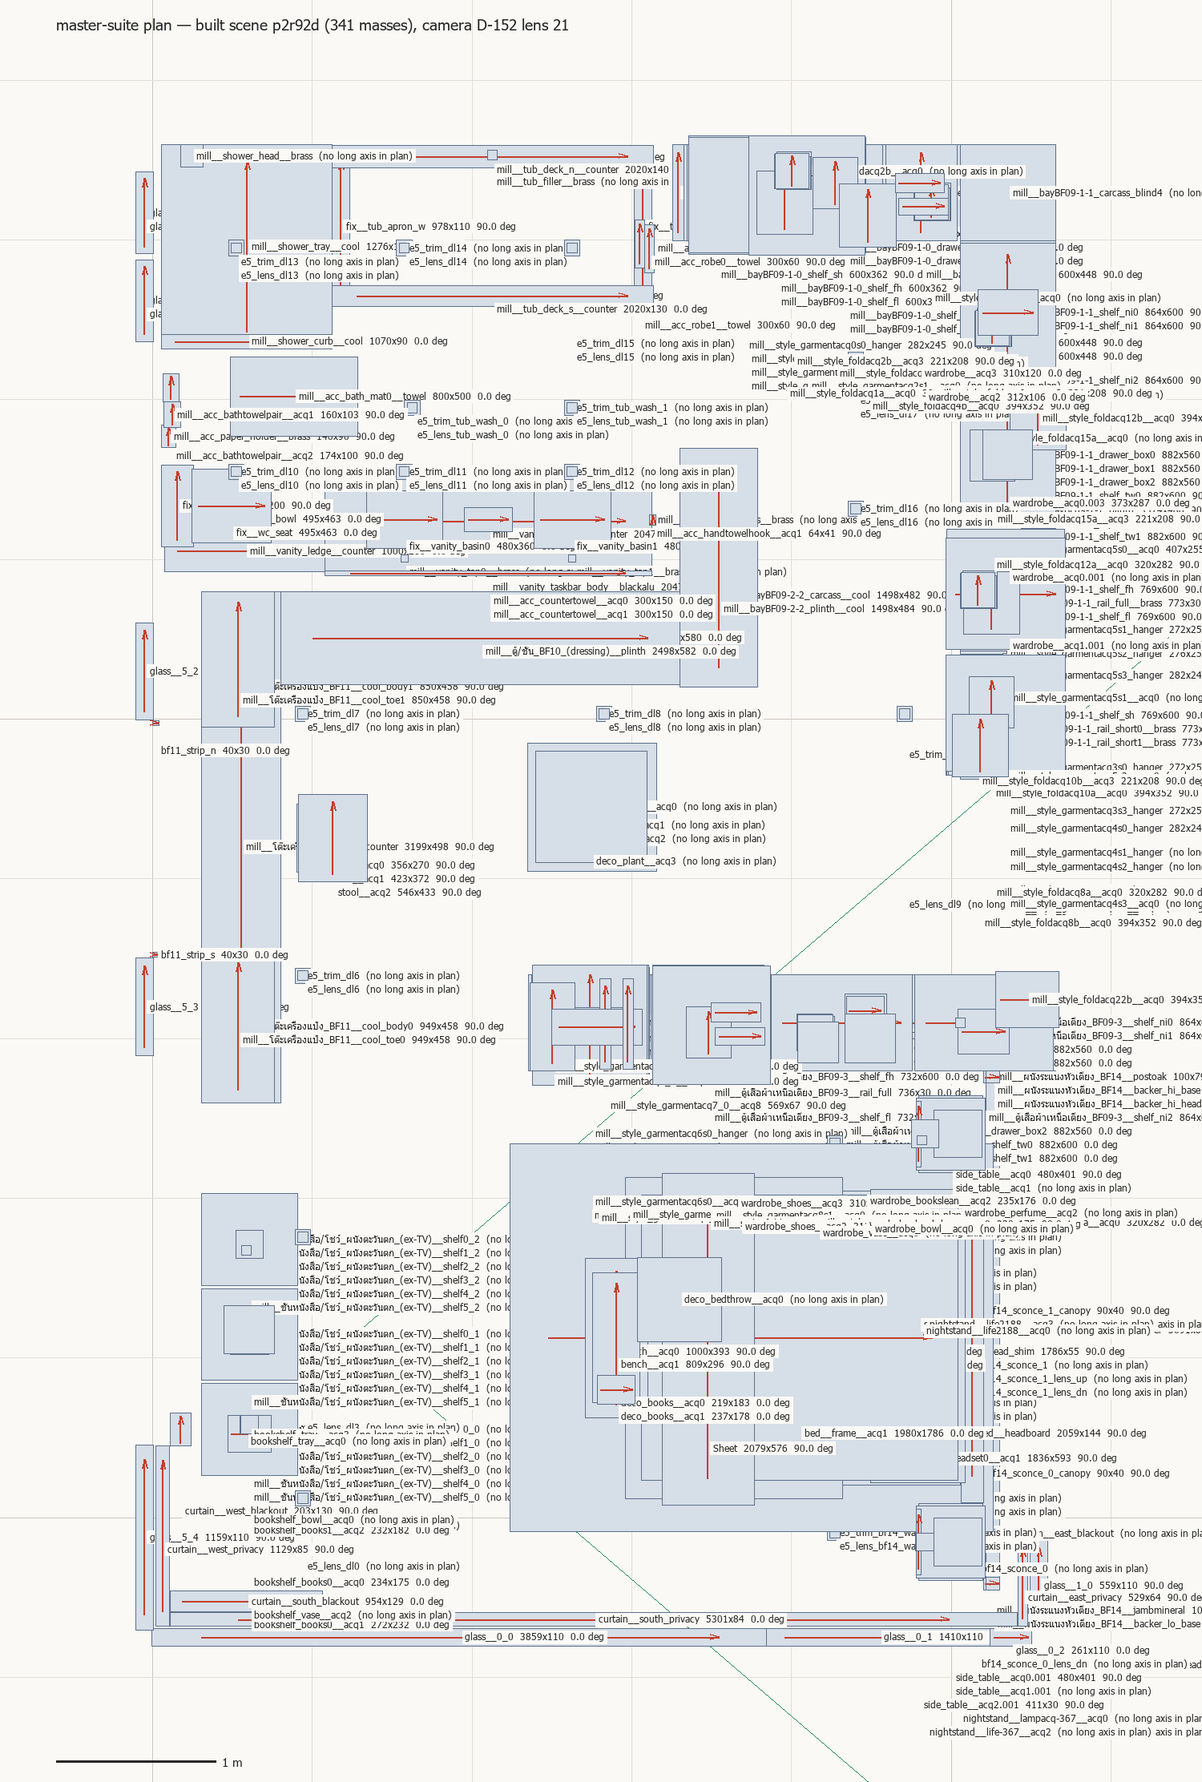
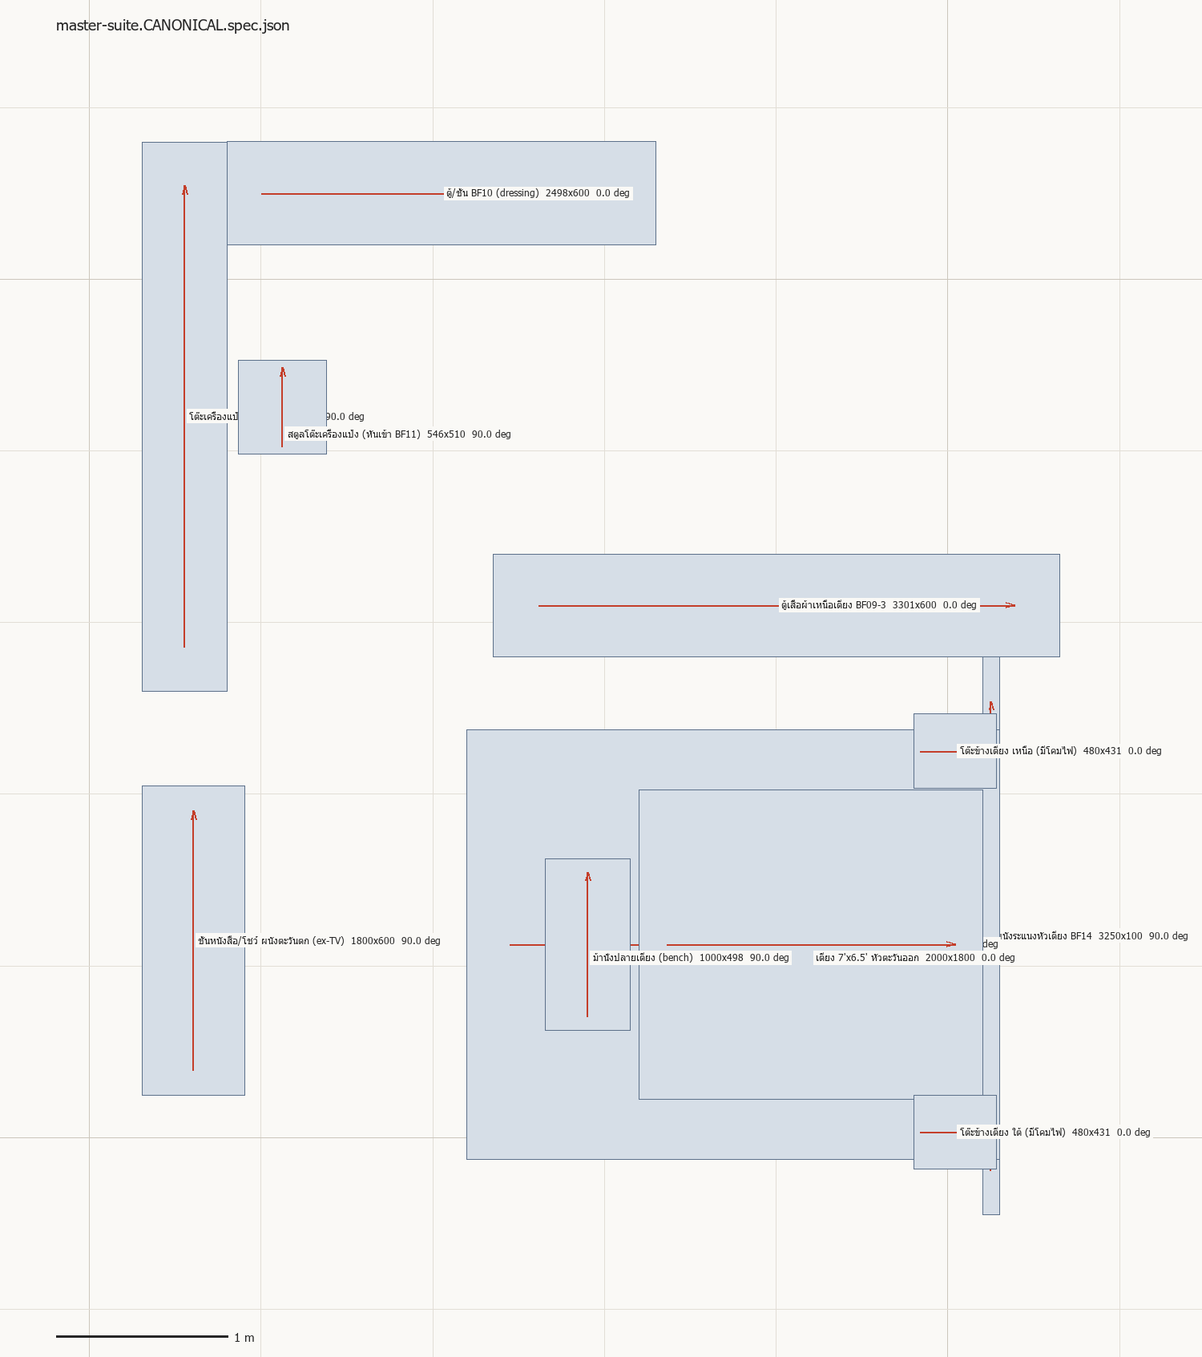
ผ้าทึบจอดอยู่หลังกล้องมา 95 รอบ — และแผงตาเห็นไม่ขยับแม้เครื่องมือจะข้าม 4 ใน 5 บาร์
curtain_opaque ได้ 0 px มาตลอดเพราะมันจอดปลายตะวันตก x[0.110..1.064] ซึ่งอยู่หลัง
กล้องที่ยืน x=1.21 — scene dump เขียน in_frustum:false ไว้ตรง ๆ ทุกรอบ พลิก token
park_end_over_glass.south lo->hi หนึ่งตัวอักษร ย้ายไป x[4.457..5.411] โดย derive จาก
ช่วง drawn ที่ตัดมุมแล้ว ไม่มีใครพิมพ์พิกัด · สเปกเขียนทางกลับนี้ไว้เองใน _provenance
("owner may re-park it east") จึงไม่ใช่การขัดคำสั่ง แต่คือการใช้ทางที่มันเปิดไว้

วัดสามเฟรมบนกล้องเดียวกัน (บาร์เป็นของแผนเอง):
  ช่วงค่า p5-p95     0.193 -> 0.442   (>=0.30 ผ่าน)
  พิกเซล L<0.60     21,577 -> 148,251 (>=100k ผ่าน)
  curtain_opaque         0 -> 151,319 (>=100k ผ่าน)
  คอลัมน์ผ้าที่มีหัวรับ 18/706 -> 364/706 (>=350 ผ่าน)
  สัดส่วนใน [.80,.90) 62.74% -> 46.65% (<=40% ตก)

บาร์ข้อ 4 เขียนไว้เกินที่เอื้อมถึงและรอบนี้พิสูจน์ว่าทำไม: 437 คอลัมน์วิ่งพ้นขอบบนเฟรม
จึงไม่มีวันมีหัวได้ที่กล้องนี้ เพดานจริงคือ 269 และ drop 150 ได้ 267 = 99.3% ของที่
เอื้อมถึง สิ่งที่ drop 300 ทำได้จริงคือ *ลด* จำนวนคอลัมน์ที่พ้นขอบ (437->342) จึงข้ามบาร์
ทำนายไว้ก่อนเรนเดอร์แล้วเรนเดอร์ยืนยัน

แต่เงื่อนไขปิดไม่ผ่าน และต้องเขียนไว้ตรง ๆ: แผงตาเห็นไม่ขยับเลย อันดับ 2/5 3/5 2/5
เท่าเดิมเป๊ะ gap ถึงเพื่อนดีที่สุด -9.7 -> -10.3 (ค่าเฉลี่ยดิบ 72.7->68.7 ห้ามอ่าน
D-189 วัดไว้ว่าแถบ 95% คือ ±14) และ 3/3 คนยังยกหน้าต่างขึ้น top-3

เหตุผลที่เขาให้วัดแล้วไม่จริง แต่ผมจะไม่ตีตกเขาด้วยข้อนั้น: ทั้งสามใช้คำว่า "clipped to
pure white" ส่วนพิกเซลอ่าน p99 0.8770 max 0.9331 เกิน 0.95 = 0.000% แตะ 1.0 = 0 px
[…]

diff --git a/projects/PRJ-2026-002_c001-house/04_visualization/gate-DELIV001-P2r95-2026-09-02.md b/projects/PRJ-2026-002_c001-house/04_visualization/gate-DELIV001-P2r95-2026-09-02.md
@@ -1,0 +1,128 @@
+# DELIV-001 / P2r-38 — ผนังหน้าต่าง — 2026-09-02 — gate #P2r95
+
+**ภาพ:** ก่อน `pipeline/output/room_bedroom_suite_eye_p2r93b.png` | หลัง
+`pipeline/output/room_bedroom_suite_eye_p2r95.png` (full-fidelity ทั้งคู่, กล้องเดียวกัน
+`--eyecam=p2r93b_offaxis_ey1600` — กล้องของบันทึกยังเป็น D-152 ไม่ถูกแตะ, A/B ยังเป็นของพี่)
+
+1. **แก้อะไร:** ผนังหน้าต่างไม่ได้ *ขาด* วงกบ — มันถูกม่านที่ปิดสนิทบังอยู่ (glazing 931 px
+   = 0.022% ของเฟรม, ราวกันตก 0 px ทั้งที่ scene dump บอก `in_frustum: true` ครบ 16 ชิ้น).
+   จึงสร้างสิ่งเดียวที่ **ไม่ได้อยู่หลังผ้า**: pelmet ที่ขอบห้องของ pocket (`glazing_header.py`,
+   drop 300 มม. [est]) + พลิก token `park_end_over_glass.south` `lo→hi` เอาผ้าทึบที่จอด
+   **อยู่หลังกล้อง** เข้าเฟรม
+2. **ผมตัดสินว่า:** **เงื่อนไขปิดของ P2r-38 ยังไม่ผ่าน — แถวนี้เปิดอยู่** เครื่องมือขยับ 4/5 บาร์
+   แต่ **แผงตาเห็นไม่ขยับเลย** (อันดับ 2/5·3/5·2/5 เท่าเดิมเป๊ะ, gap −9.7 → −10.3) และ
+   **3/3 คนยังยกหน้าต่างขึ้น top-3**. ทางที่ทิ้ง: สร้างวงกบ/mullion/วิวหลังกระจก — วัดแล้ว
+   930 px และ 0 px ตามลำดับ, occlusion-bound ทั้งคู่ (D-192)
+3. **ไม่แน่ใจ:** **ผ้าทึบที่เพิ่งเข้าเฟรมอ่านเป็นผ้าหรือเป็นไม้อีกแผ่น** — วัดได้ห่างจากไม้โอ๊ค
+   ข้าง ๆ แค่ 0.020 L / 2.1° hue และอยู่ห่างกัน 28 px (D-195). สีนั้นถูกเลือกตอนที่ผ้า
+   **มองไม่เห็น** โดยมีเหตุผลบันทึกไว้ว่า "ให้กลืนพื้นหลัง" — ข้อสมมตินั้นตายไปแล้ว
+   ผมไม่แก้เอง เพราะจะเป็นการกลับคำที่บันทึกไว้เงียบ ๆ
+
+---
+
+## เลขที่ตัดสินรอบนี้ (เกณฑ์ที่แผนเขียนไว้เอง)
+
+| # | เกณฑ์ | p2r93b | p2r94 (150) | **p2r95 (300)** | บาร์ | |
+|---|---|---|---|---|---|---|
+| 1 | ช่วงค่า p5–p95 ในกรอบ W | 0.193 | 0.463 | **0.442** | ≥0.30 | ✅ |
+| 2 | สัดส่วนใน [.80,.90) | 62.74% | 46.72% | **46.65%** | ≤40% | ❌ |
+| 3 | พิกเซล L<0.60 | 21,577 | 160,186 | **148,251** | ≥100,000 | ✅ |
+| 4 | คอลัมน์ผ้าที่มีอะไรรับหัวไว้ | 18/706 | 267/706 | **364/706** | ≥350 | ✅ |
+| 5 | `curtain_opaque` px | 0 | 161,336 | **151,319** | ≥100,000 | ✅ |
+| 6 | ไม่มีกรรมการยกหน้าต่างใน top-3 | 6/6 ยก | — | **3/3 ยก** | 0/3 | ❌ |
+
+กรอบ W = cols 1694–2399 × rows 0–999 (สี่เหลี่ยมตายตัวในพิกัดภาพ — กันไม่ให้ผ่านด้วยการ
+ทำให้ผ้าหายออกจากเฟรม ซึ่งเป็นช่องโหว่ของเกณฑ์ฉบับแรก)
+
+**บาร์ข้อ 4 เขียนไว้เกินที่เอื้อมถึง และรอบนี้พิสูจน์ว่าทำไม:** 437 คอลัมน์ (p2r94) วิ่ง
+**พ้นขอบบนของเฟรม** จึงไม่มีวันมีหัวได้ที่กล้องนี้ — เพดานจริงคือ 269 และ p2r94 ได้ 267
+(99.3% ของที่เอื้อมถึง). **สิ่งที่ pelmet ลึกกว่าทำได้จริงคือ *ลด* จำนวนคอลัมน์ที่พ้นขอบ**
+(437 → 342) จึงข้ามบาร์ได้ที่ 300 มม. — ทำนายไว้ก่อนเรนเดอร์ แล้วเรนเดอร์ยืนยัน
+
+**แผงตาเห็น (D-189: อ่าน gap ในรอบเดียวกัน ห้ามอ่านค่าเฉลี่ยดิบข้ามรอบ)**
+
+| | p2r93b | p2r95 |
+|---|---|---|
+| อันดับ | 2/5 · 3/5 · 2/5 | 2/5 · 3/5 · 2/5 |
+| gap ถึงเพื่อนที่ดีที่สุด | −8 / −9 / −12 → **−9.7** | −6 / −15 / −10 → **−10.3** |
+| sendable | after-minor-fixes ×3 | after-minor-fixes ×3 |
+
+ค่าเฉลี่ยดิบ 72.7 → 68.7 — **ไม่นับ** แถบ 95% ของผลต่างสองแผงคือ ±14 (D-189)
+
+---
+
+## C2 (blind local, 28 ข้อ) — triage
+
+`_private/deliv-001/critique/critique-room_bedroom_suite_eye_p2r95/` · C2 จัด rank 1 =
+**หัวเตียง** ไม่ใช่หน้าต่าง; หน้าต่างเป็น rank 3
+
+| id | ข้อ | triage |
+|---|---|---|
+| C2#5 | หน้าต่างไม่มีวงกบ/jamb/reveal/mullion/sill/ราง/วิว | **✓รับบางส่วน + วัดแล้ว occlusion-bound** — วงกบ 930 px, วิว 0 px, ราวกันตก 0 px หลังผ้าที่ปิดสนิท (D-192). **แต่มันเห็น pelmet ("meets the ceiling in a dark band") และอ่านไม่ออกว่าเป็นราง** → เลน P2r-39: หน้าตัด/เงาใต้ pelmet |
+| C2#6 | ชายผ้าเป็นขั้นบันได มีพื้นโผล่ใต้ผ้าหลายเส้น | **✓รับ — วัดยืนยัน: 333 จาก 523 คอลัมน์ (63.7%) มีพื้นอยู่ใต้ชายผ้าโดยตรง**, กระโดดระหว่างคอลัมน์ >5px 12 ครั้ง สูงสุด 16px. ข้อใหม่ที่ไม่มีเครื่องไหนเคยมอง → เลน P2r-39 (`curtains.HEM_CLEAR_M`) |
+| C2#7 | ผ้า "clipped to paper white" ทั่วทั้งผืน | **✗หักล้างเฉพาะกลไก ✓รับตัวข้อบกพร่อง** — วัด: p99 0.8770, **max 0.9331**, เกิน 0.95 = 0.000%, แตะ 1.0 = **0 px**. ไม่มีอะไรไหม้. แต่ข้อบกพร่องจริงมีอยู่ และคือบาร์ข้อ 2 ที่ตก (46.65% ในแถบ .80–.90) → **คันโยกคือ transmission ไม่ใช่ exposure** |
+| C2#1,2,3 | แผงหัวเตียงลอย ไม่มีอะไรรับ + ไฟทองเหลืองสองดวงตั้งบนสัน ไม่มีสาย/แขน/จุดยึด | **✓รับ — และนี่คือ rank 1 ของ C2 ไม่ใช่หน้าต่าง** เป็นคนละกลไก เปิดแถวใหม่ (ไม่ใช่งานของ P2r-38) |
+| C2#4,8,19,20 | แสงไม่มีผลลัพธ์: ผนังมีแอ่งแสงที่ไม่มีดวงไฟ, ไม่มีเงาทิศทางจากหน้าต่างที่สว่างที่สุด, โคมติดแต่ไม่มี pool, ดาวน์ไลท์ไม่ส่องอะไร | **✓รับ — rank 2 ของ C2** ตรงกับหนี้เดิมของเลนแสง เปิดแถว |
+| C2#9,10,13,14,15,16,17,27 | ทุกมวลค่าเดียวกัน · พรมไร้ pile/ขอบ · ผ้านวมเรียบมีมัน · ผ้าคลุมขอบคม · หมอนเป็นลิ่มแบน · ขอบพรมไม่มีเงา · ปลายม้านั่งลอยข้างเดียว · หนังสือไม่มีเงา | **✓รับทั้งชุด** — ตระกูล material/contact realism ตรงกับ C3 top-3 (พรม/ม้านั่ง/ผ้าคลุม) เปิดเป็นรอบของตัวเอง |
+| C2#11 | ม้านั่งสูงเท่าที่นอน กว้างเกือบเท่าเตียง | **✓รับ** — ตรงกับที่ j3 ยกเอง ("shrink or shift the ottoman") |
+| C2#18,28 | ไม่มีปลั๊ก/สวิตช์ · ไม่มีแอร์/กริล/detector | ✓รับ (services) — หนี้เดิม ไม่ใช่รอบนี้ |
+| C2#22,23,26 | ตู้เปิดว่าง · ไม่มีงานศิลป์/ต้นไม้/ของบนหัวเตียง · ทางเดินข้างเตียงแคบ | **✓รับ** — ตู้ว่าง = P2r-35 ที่ค้างอยู่แล้ว; ทางเดินแคบ = ยืนยัน D-190 (เตียงกว้างเกินห้อง, ASK-002) |
+| C2#21,24,25 | พื้นไม้ริมหน้าต่างไหม้ขาว · รอยต่อระแนงสองแบบชนกันไม่มี reveal · ปลายชั้นไม้เปิดโล่ง | ✓รับ — เปิดแถว (joinery detail) |
+| C2#12 | มุมผ้านวมสองมุมเป็นระนาบแข็งกาง 45° | ✓รับ — ตระกูล cloth เดิม (R8 ACQUIRE, ห้ามรอบปั้นที่สาม) |
+
+## C3 (Gemini 2.5 Pro, 8 ข้อ) — triage
+
+**หน้าต่างหล่นจากอันดับ 6 (p2r93b) ไปเป็นข้อ 8 จาก 8 · sellability `low`** และเปลี่ยนชนิด
+คำวิจารณ์จาก "อ่านเป็นพลาสติกทึบ" เหลือ "รอยพับสม่ำเสมอเกินไป"
+
+| id | ข้อ | triage |
+|---|---|---|
+| C3#8 | ม่านตั้ง "ทุกเส้นตรงเป๊ะ ระยะเท่ากันเป๊ะ" อ่านเป็นมู่ลี่ | **✓รับ — วัดยืนยันก่อนจะได้คำวิจารณ์: autocorrelation พีคที่ lag 38 px = 0.195 เทียบพื้น 0.036 (5.4 เท่า)**. j2 เรียก "vertical louvres" j3 เรียก "blinds" — สามฝ่ายอิสระเห็นตรงกัน → เลน P2r-39 |
+| C3#1 | พรมไม่มีความหนา/ขน อ่านเป็นเท็กซ์เจอร์แปะพื้น (เลือกแก้ข้อเดียว = ข้อนี้) | ✓รับ — ตรงกับ C2#10/#16 และ j3 |
+| C3#2,3,4,6 | ม้านั่งลาย repeat · พู่ผ้าคลุมเป็นก้อน · หมอนแข็งเป่าลม · เสื้อในตู้แข็ง | ✓รับ — ตระกูลเดียวกับ C2 material/cloth |
+| C3#5 | ระแนงไม้สีและลายสม่ำเสมอเกินจริง | ✓รับ — ตรงกับ C2#9 |
+| C3#7 | หน้าลิ้นชักเบลอ ความละเอียดต่ำ | ✓รับ — texture resolution เปิดแถว |
+
+## กรรมการตาเห็น 3 คน — triage ข้อที่เกี่ยวกับรอบนี้
+
+ทั้งสามคนยกหน้าต่างขึ้น top-3 ด้วยคำว่า **"clipped/clips to pure white"** — j1 ข้อ 1,
+j2 ข้อ 1, j3 ข้อ 3. **✗หักล้างเฉพาะคำว่า clipped (max 0.9331, 0 px แตะ 1.0) ✓รับข้อบกพร่อง**:
+สิ่งที่เขาเห็นคือพื้นที่ใหญ่ในแถบสว่างแคบไม่มีโครงสร้าง ซึ่ง **เป็นบาร์ข้อ 2 ที่ตกพอดี**.
+ตามกฎเราเอง (R7b) ตาชี้ว่า *อะไร* ผิด เครื่องชี้ว่า *เท่าไรและปุ่มไหน* — และรอบนี้ทั้งสอง
+ฝ่ายชี้ปุ่มเดียวกัน. j1/j3 ยังขอ "ให้เห็นอะไรหลังกระจก" ซึ่งวัดแล้วถูกม่านบัง 100% →
+**คำตอบคือรูดม่าน ไม่ใช่สร้างของหลังม่าน** (D-192 `reverse_by`)
+
+---
+
+**RANK (charter finish line):** แผง exit_panel 3 คน บันทึกลง `qa/exit-panel-log.json` แล้ว
+(`_private/deliv-001/exit-panel-p2r95/`). ANSWERED — ไม่ใช่หนี้รอบนี้
+
+**เข้า knowledge/ รอบนี้:** ยังไม่มีไฟล์ใหม่ — สิ่งที่รอบนี้เรียนรู้ยังเป็นข้อเท็จจริงของ *เลนนี้*
+(pelmet reach, occlusion-bound items, เกณฑ์ที่เอื้อมไม่ถึง) ไม่ใช่ความรู้ที่ข้ามโปรเจกต์ได้
+จนกว่ารอบ transmission จะจบ. **หนี้ที่ประกาศไว้:** ถ้ารอบ P2r-39 ได้ตัวเลข BTDF ที่ใช้ได้
+ให้กลั่นลง `knowledge/materials/` เป็นกฎม่านโปร่งของสตูดิโอ
+
+**Spend:** build 4 (quick 3 + probe 1) · render เต็ม 2 (p2r94, p2r95) · workflow 11 เอเจนต์
+(2.15M token) + critics 4 เอเจนต์ · wall-clock เลนรอบนี้ ~5 ชม. ·
+**Reversible:** yes — pelmet: ลบบรรทัด `_add_curtain_header(spec)` หนึ่งบรรทัด;
+park: พลิก token กลับเป็น `"lo"`; drop: `--pelmet-drop=`
+
+**R1:** ใช้ full frame 2 รอบพอดีสำหรับกลไก pelmet — **ครบโควตา หยุดตรงนี้ตามกฎ**
+รอบถัดไปเป็นกลไกใหม่ (transmission) มีโควตาของตัวเอง
+
+**คิวที่ผมเสนอ (คำแนะนำ ไม่ใช่คำสั่ง):**
+1. **P2r-39 — transmission + ชายผ้าม่าน** คันโยกเดียวที่ตาและเครื่องชี้ตรงกัน: bracket
+   `--sheer-direct=` ให้บาร์ข้อ 2 ลงต่ำกว่า 40% · แก้ชายผ้า (63.7% ของคอลัมน์มีพื้นโผล่ใต้ผ้า)
+   · ลดคาบรอยพับ 38 px ที่สามฝ่ายเรียกว่ามู่ลี่
+2. **หัวเตียง** — rank 1 ของ C2 และ j2/j3 ยกเหมือนกัน ("flat dark slab, no material")
+3. **material realism ชุดใหญ่** — พรม/ม้านั่ง/ผ้าคลุม/หมอน (C3 top-3 + C2 8 ข้อ)
+
+**ตัดสินรอบนี้:**
+- **D-192** ผนังหน้าต่างถูกบัง ไม่ใช่ไม่ได้สร้าง — วงกบ 930 px / วิว 0 px เลื่อนเป็นแถว
+  ← กลับทาง: พี่ชี้ว่าอยากเห็นกระจก → รูดม่าน แล้ววงกบคุ้มทันที
+- **D-193** drop/หน้าตัด pelmet เป็น DECLARED ASSUMPTION + แก้ `still_owner` ในคอมมิตเดียวกัน
+  ← กลับทาง: `--pelmet-drop=<mm>` หรือลบหนึ่งบรรทัด
+- **D-194** `park_end_over_glass.south` `lo→hi` — สเปกเขียนทางกลับนี้ไว้เอง
+  ← กลับทาง: พลิก token กลับ
+- **D-195** สีผ้าทึบถูกเลือกตอนมันมองไม่เห็น ข้อสมมตินั้นตายแล้ว — **ยังไม่แก้ รอตาพี่/กรรมการ**
+  ← กลับทาง: แก้ `fabric_rgba_linear.opaque` ให้ห่างจากโอ๊ค ≥0.10 L
